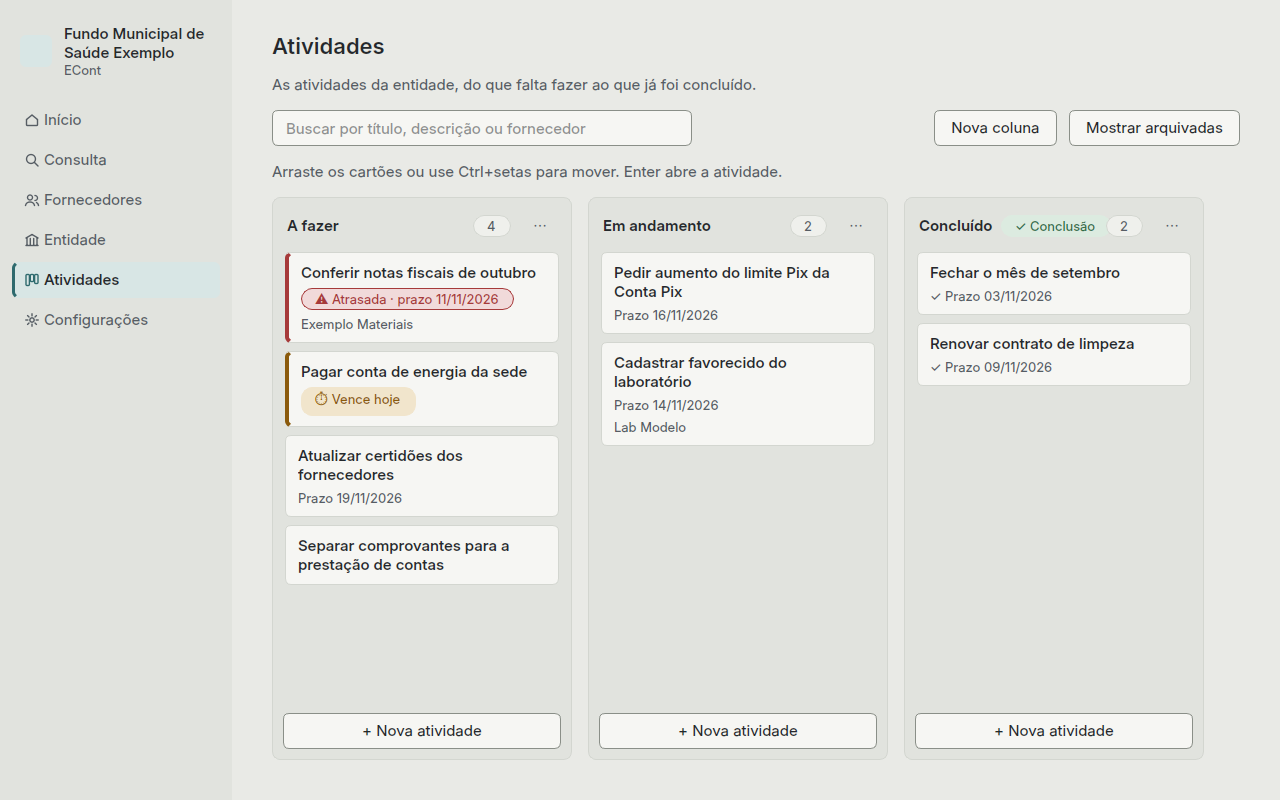
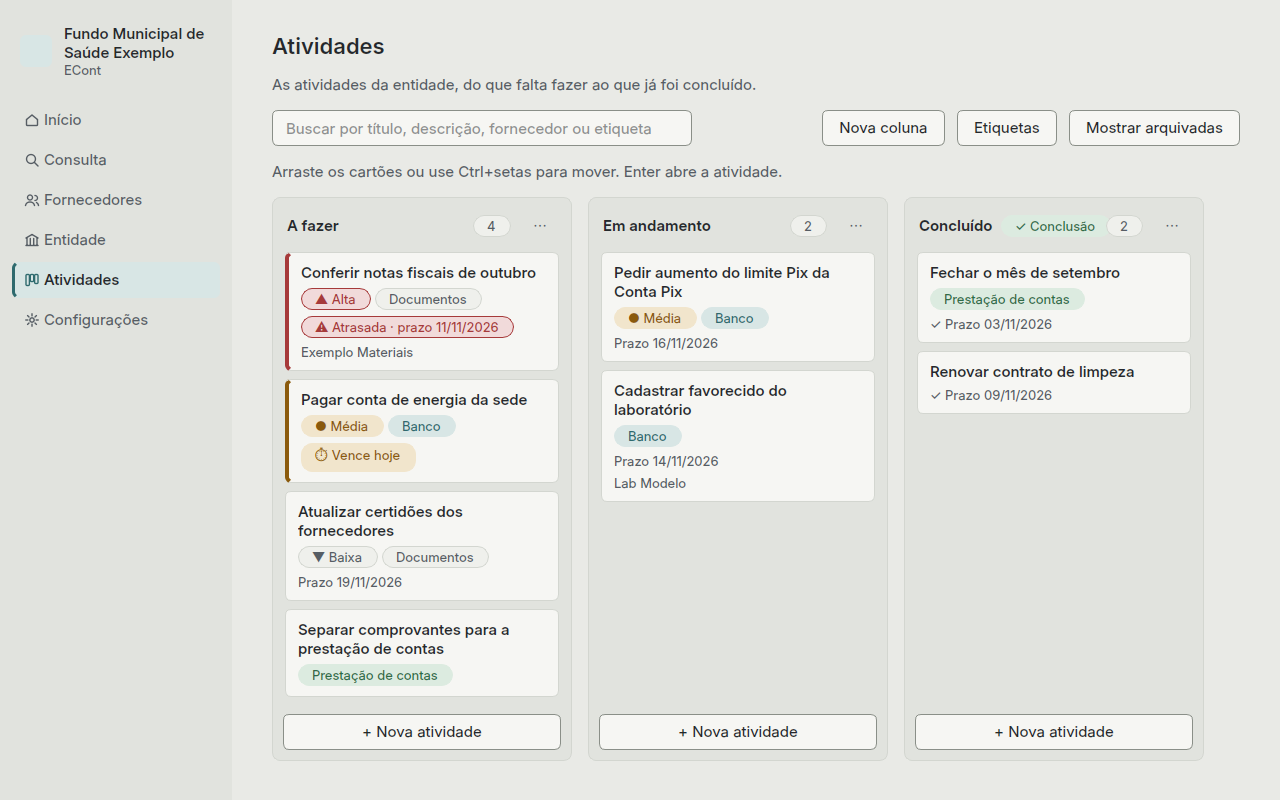
Guia das Atividades com prioridade e etiquetas, e formatação ao digitar nos Fornecedores (#58)

diff --git a/scripts/capturas.py b/scripts/capturas.py
@@ -21,6 +21,7 @@ from econt.dados.atividades import (
     DadosAtividade,
     arquivar_atividade,
     criar_atividade,
+    criar_etiqueta,
     mover_atividade,
 )
 from econt.dados.banco import BaseDeDados
@@ -106,19 +107,24 @@ def atividades_de_exemplo(c, distribuidora: int, laboratorio: int) -> None:
     """Um quadro com atividades inventadas, com prazos em volta de hoje."""
     hoje = date.today()
     a_fazer, em_andamento, concluido = 1, 2, 3
+    banco = criar_etiqueta(c, "Banco", "info")
+    contas = criar_etiqueta(c, "Prestação de contas", "sucesso")
+    documentos = criar_etiqueta(c, "Documentos", "neutra")
     exemplos = [
-        (a_fazer, "Conferir notas fiscais de outubro", -2, distribuidora, ""),
-        (a_fazer, "Pagar conta de energia da sede", 0, None, "Vence às 16h no banco."),
-        (a_fazer, "Atualizar certidões dos fornecedores", 6, None, ""),
-        (a_fazer, "Separar comprovantes para a prestação de contas", None, None, ""),
-        (em_andamento, "Pedir aumento do limite Pix da Conta Pix", 3, None, ""),
-        (em_andamento, "Cadastrar favorecido do laboratório", 1, laboratorio, ""),
-        (concluido, "Fechar o mês de setembro", -10, None, ""),
-        (concluido, "Renovar contrato de limpeza", -4, None, ""),
+        (a_fazer, "Conferir notas fiscais de outubro", -2, distribuidora, 3, [documentos]),
+        (a_fazer, "Pagar conta de energia da sede", 0, None, 2, [banco]),
+        (a_fazer, "Atualizar certidões dos fornecedores", 6, None, 1, [documentos]),
+        (a_fazer, "Separar comprovantes para a prestação de contas", None, None, 0, [contas]),
+        (em_andamento, "Pedir aumento do limite Pix da Conta Pix", 3, None, 2, [banco]),
+        (em_andamento, "Cadastrar favorecido do laboratório", 1, laboratorio, 0, [banco]),
+        (concluido, "Fechar o mês de setembro", -10, None, 0, [contas]),
+        (concluido, "Renovar contrato de limpeza", -4, None, 0, []),
     ]
-    for coluna, titulo, dias, fornecedor, descricao in exemplos:
+    for coluna, titulo, dias, fornecedor, prioridade, etiquetas in exemplos:
         prazo = hoje + timedelta(days=dias) if dias is not None else None
-        criar_atividade(c, coluna, DadosAtividade(titulo, descricao, prazo, fornecedor))
+        descricao = "Vence às 16h no banco." if dias == 0 else ""
+        dados = DadosAtividade(titulo, descricao, prazo, fornecedor, prioridade, etiquetas)
+        criar_atividade(c, coluna, dados)
     antiga = criar_atividade(c, a_fazer, DadosAtividade("Reunião com o contador"))
     mover_atividade(c, antiga, concluido, 1)
     arquivar_atividade(c, antiga)

diff --git a/docs/atividades.md b/docs/atividades.md
@@ -10,7 +10,8 @@ acompanhar o trabalho do setor financeiro no próprio ECont, sem outra ferrament
 Há um único quadro, o da entidade. Ele começa com três colunas: **A fazer**,
 **Em andamento** e **Concluído**. Cada coluna mostra o nome e quantas atividades tem.
 
-Cada cartão mostra o título, o prazo (se houver) e o fornecedor (se houver):
+Cada cartão mostra o título, a prioridade e as etiquetas (se houver), o prazo (se houver) e
+o fornecedor (se houver):
 
 - **Atrasada:** o prazo já passou e a atividade não está na coluna de conclusão. O cartão
   fica com a borda vermelha e a etiqueta "Atrasada".
@@ -29,11 +30,26 @@ Atividades atrasadas e que vencem hoje também aparecem no [Início](inicio.md).
 |---|---|
 | Título | Obrigatório, até 120 caracteres |
 | Descrição | Opcional, com quantas linhas precisar |
-| Prazo | Opcional. Só a data, assim: 25/11/2026 |
-| Fornecedor | Opcional. Digite parte do nome para filtrar a lista |
+| Prazo | Opcional. Digite só os números (25112026) e as barras entram sozinhas |
+| Prioridade | Opcional: Baixa, Média ou Alta |
+| Fornecedor | Opcional. Digite parte do nome, do nome fantasia ou do CNPJ e escolha na lista que aparece |
+| Etiquetas | Opcional. Marque quantas quiser; **+ Nova etiqueta** cria uma ali mesmo |
 
 Para editar, dê um duplo clique no cartão ou selecione o cartão e tecle **Enter**. O diálogo
 também mostra em que coluna a atividade está e quando foi criada, alterada e movida.
+
+## Prioridade e etiquetas
+
+A **prioridade** aparece no cartão com o nome e um símbolo: ▲ Alta, ● Média, ▼ Baixa. Ela não
+muda a ordem do quadro: a ordem é a que você arruma arrastando.
+
+As **etiquetas** marcam atividades parecidas, como "Banco" ou "Prestação de contas". Cada uma
+tem um nome e uma cor (cinza, azul, verde, amarelo ou vermelho). O botão **Etiquetas**, no topo
+do quadro, lista todas, com quantas atividades usam cada uma, e permite criar, mudar o nome e
+a cor, e excluir. Excluir uma etiqueta pede confirmação e só a tira das atividades: as
+atividades continuam.
+
+Para ver só as atividades de uma etiqueta, digite o nome dela na busca.
 
 ## Mover
 
@@ -47,8 +63,8 @@ O ECont grava cada troca de coluna com a data e os nomes das colunas.
 
 ## Buscar
 
-O campo de busca, no topo, filtra os cartões por título, descrição e nome do fornecedor
-enquanto você digita, sem diferenciar maiúsculas e acentos. Com a busca ativa, cada coluna
+O campo de busca, no topo, filtra os cartões por título, descrição, nome do fornecedor e
+etiquetas enquanto você digita, sem diferenciar maiúsculas e acentos. Com a busca ativa, cada coluna
 mostra quantas atividades estão à mostra ("1 de 4"), e dá para arrastar normalmente: o cartão
 cai no lugar certo mesmo com outros cartões escondidos.
 

diff --git a/docs/fornecedores.md b/docs/fornecedores.md
@@ -15,6 +15,10 @@ Clique em **Novo fornecedor** e escolha pessoa jurídica ou pessoa física.
 - **Razão social** (ou nome, para pessoa física): obrigatória.
 - Nome fantasia, telefone, e-mail, endereço e observações são opcionais.
 
+Digite só os números: CNPJ, CPF e telefone ganham os pontos, a barra, o traço e os parênteses
+enquanto você digita. O mesmo vale para a chave Pix de CNPJ, CPF ou telefone e para o CNPJ da
+entidade. Telefone começando com 0 (como 0800) ou com +, ou com texto, fica como foi digitado.
+
 Enter em qualquer campo salva.
 
 ## A ficha do fornecedor
